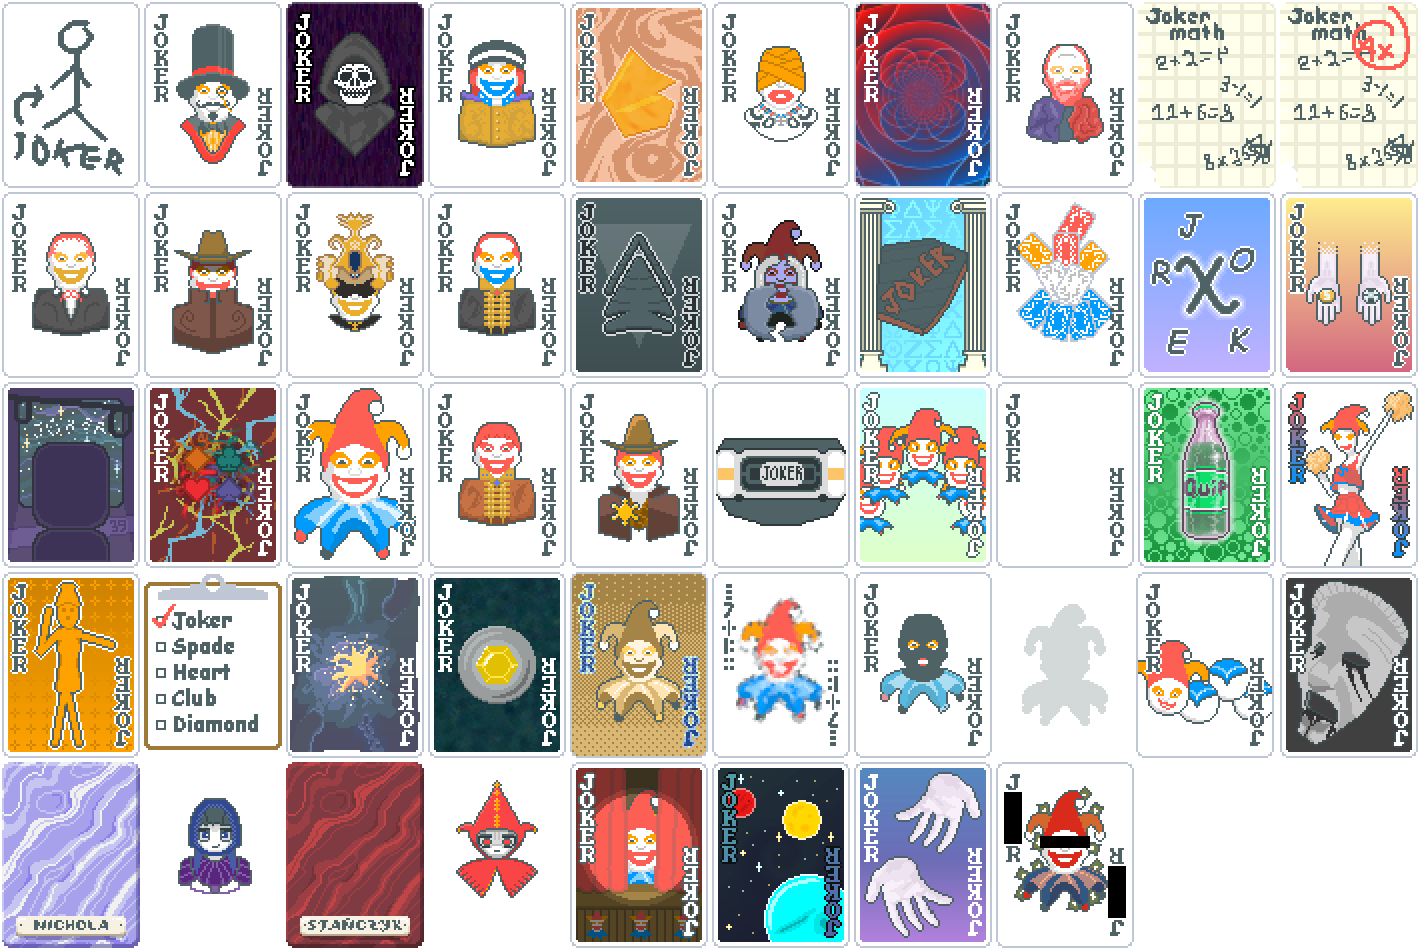
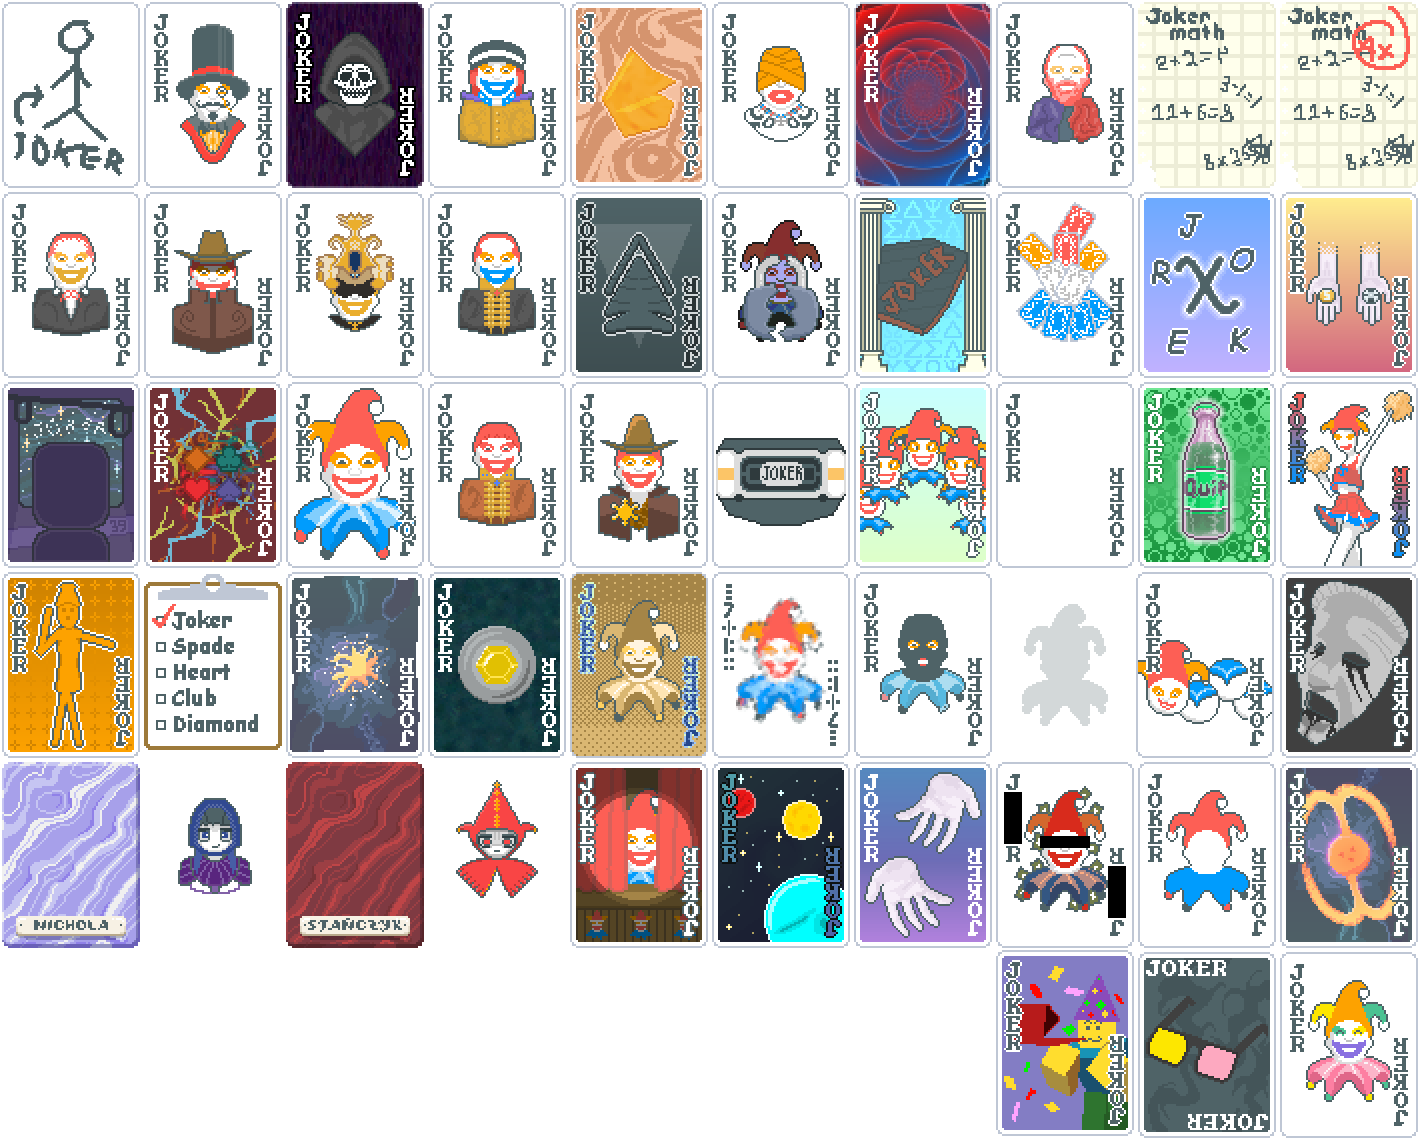
Mostly complete 1.2

diff --git a/README.md b/README.md
@@ -3,15 +3,21 @@ A fun-focused and (hopefully) balanced extension to the vanilla game, aiming to 
 This is my first mod (and first real project like this), so I hope you're able to enjoy playing it as much as I did making it.
 
 # Content
-- 45 New Jokers
+- 50 New Jokers
 - 2 New Spectral Cards
-- 1 New Tarot Card
-- 2 New Enhancements
+- 2 New Tarot Cards
+- A totally new card type!
+- 3 New Enhancements
 - 1 Pair of Vouchers (2 Total)
+
+Also check out the [wiki](https://balatromods.miraheze.org/wiki/Osquo%27s_Extensions)!
 
 # Dependencies
 - [Steamodded](https://github.com/Steamopollys/Steamodded) Version 1.0.0 Beta-0314a or later
 - [Lovely](https://github.com/ethangreen-dev/lovely-injector)
+
+# Compatability
+- Full JokerDisplay compatability included!
 
 # Credits
 - The Balatro Discord Server for their immense help in getting this project off the ground
